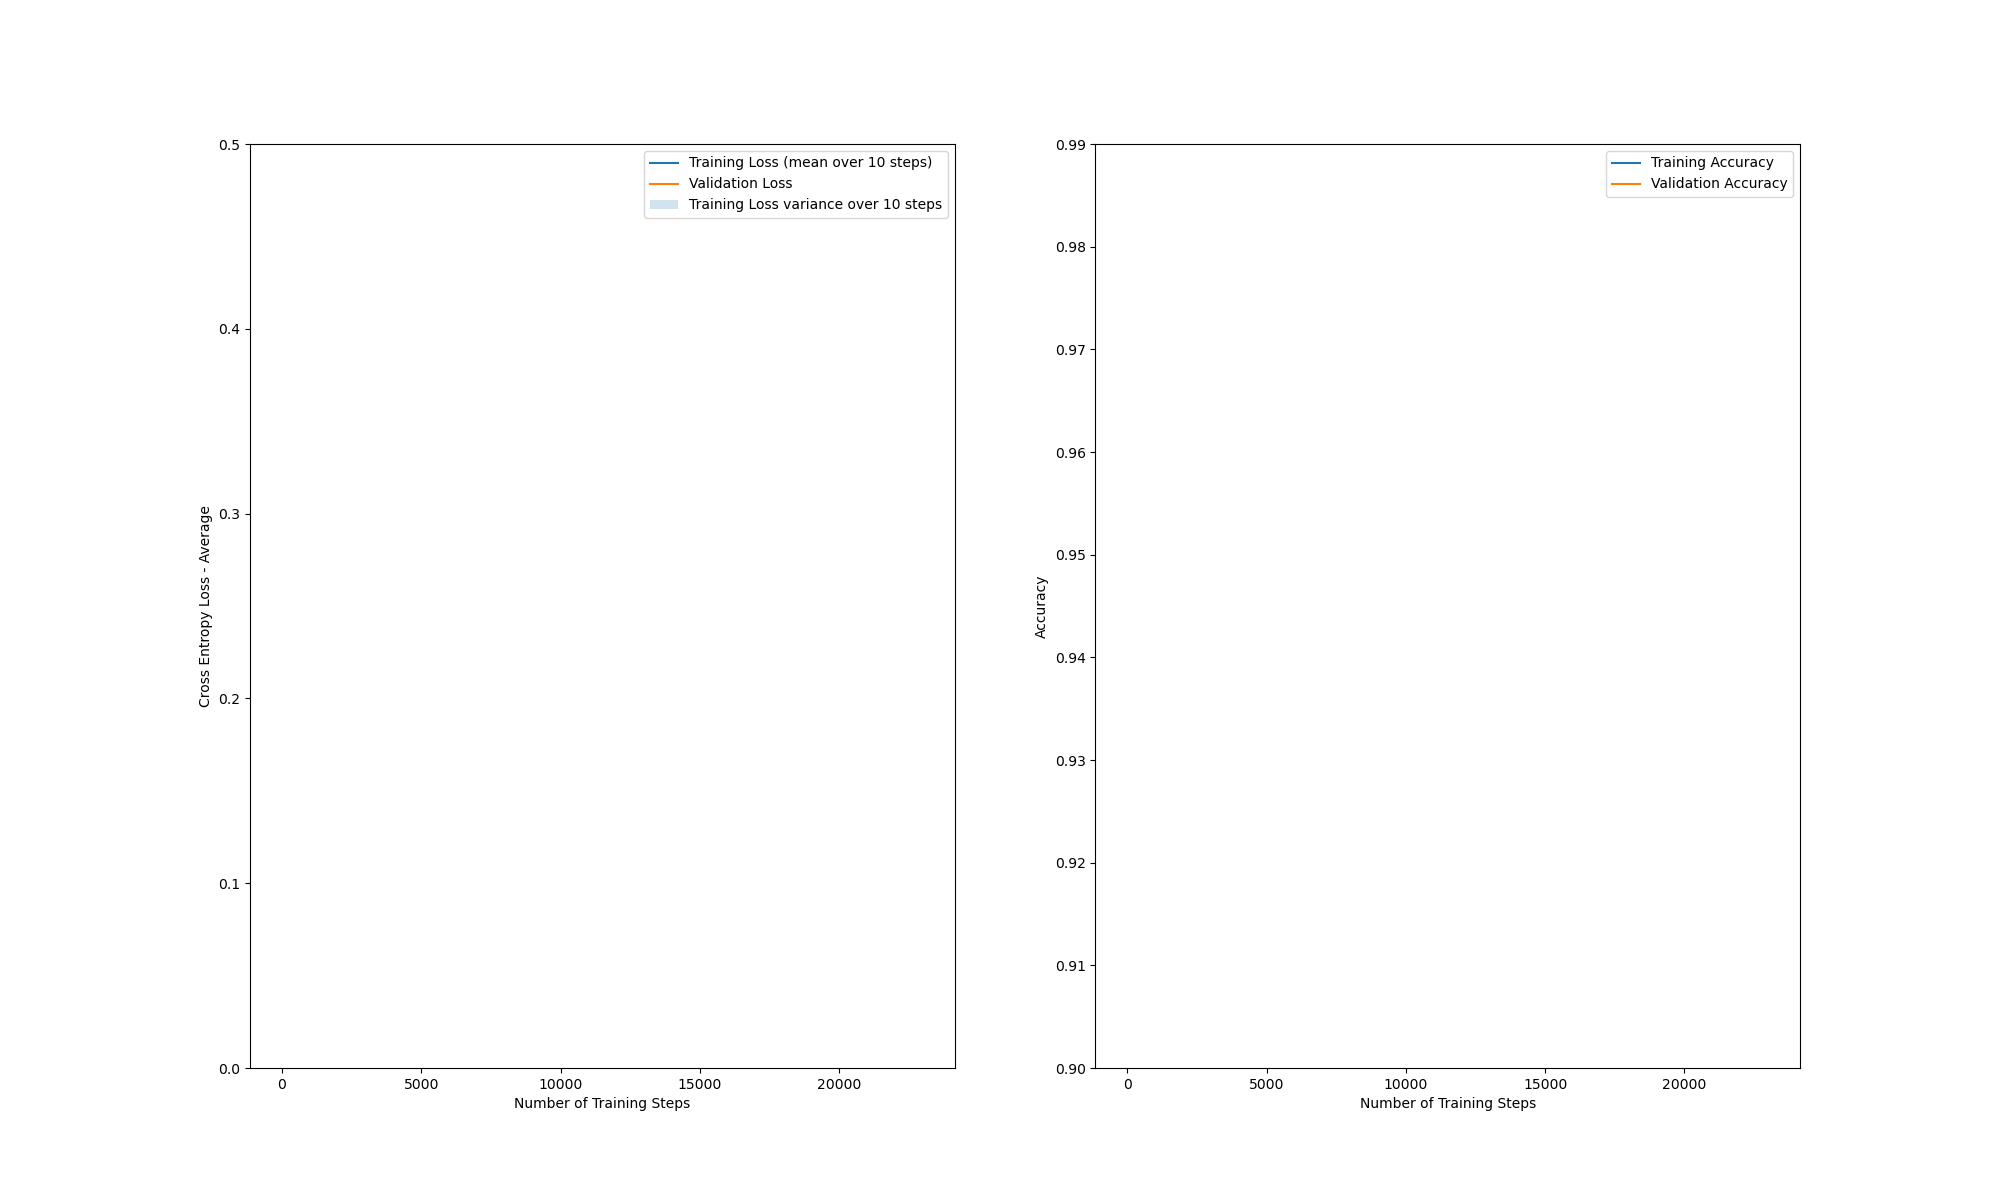
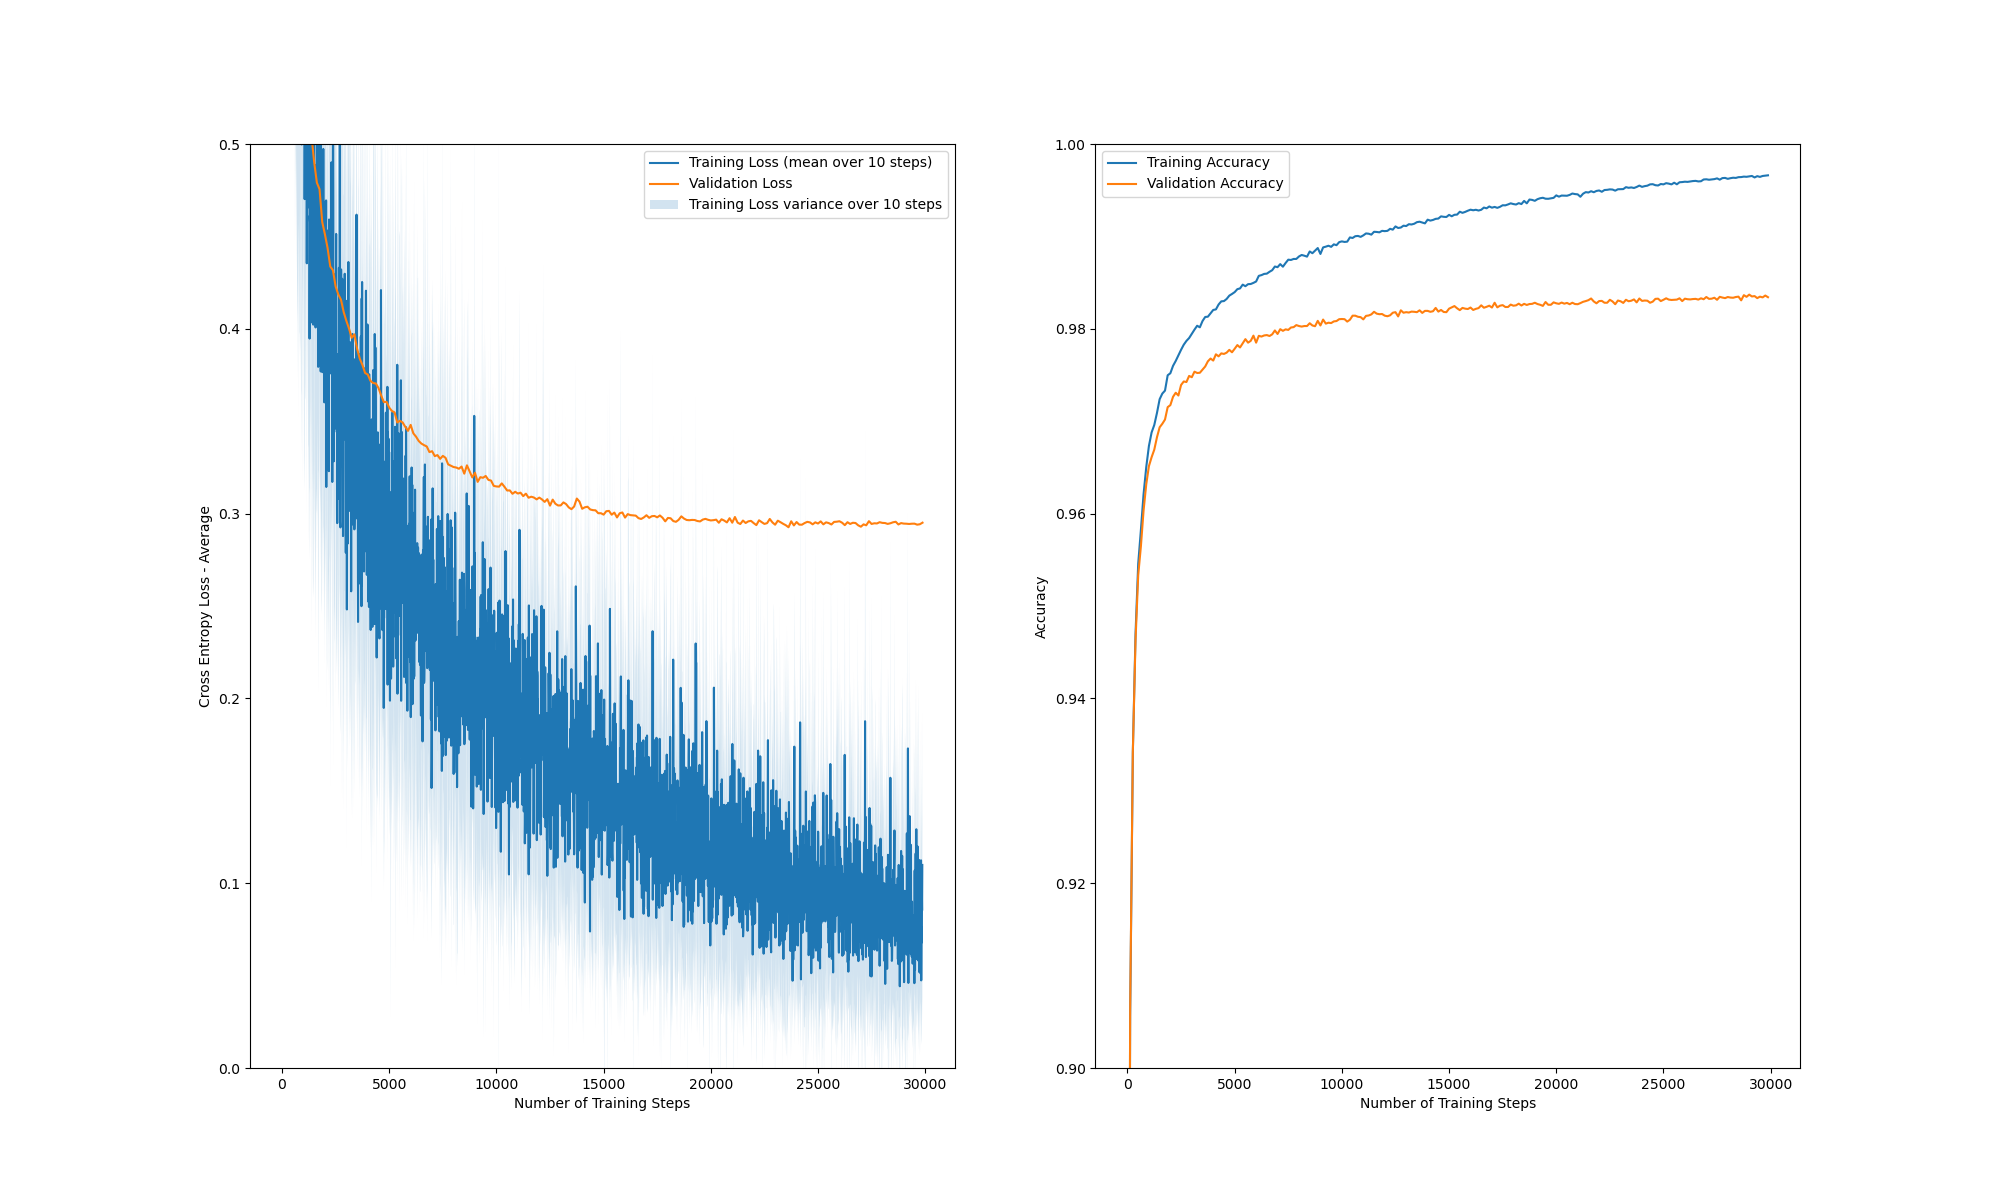
A2: task 2 done

diff --git a/assignment2/task2.py b/assignment2/task2.py
@@ -18,8 +18,8 @@ def calculate_accuracy(X: np.ndarray, targets: np.ndarray, model: SoftmaxModel) 
     predictions = model.forward(X)
 
     chosen_class = np.zeros_like(predictions)
-    chosen_class[np.arange(len(predictions)), predictions.argmax(1)]=1
-    correct = np.count_nonzero(targets==chosen_class)
+    chosen_class[np.arange(len(predictions)), predictions.argmax(1)] = 1
+    correct = np.count_nonzero(targets == chosen_class)
     accuracy = correct / (targets.shape[0]*targets.shape[1])
     return accuracy
 
@@ -51,13 +51,12 @@ class SoftmaxTrainer(BaseTrainer):
         Returns:
             loss value (float) on batch
         """
-        # TODO: Implement this function (task 2c)
+        # task 2c
         outputs = self.model.forward(X_batch)
         self.model.backward(X_batch, outputs, Y_batch)
         for i in range(0,2):
             self.model.ws[i] -= self.learning_rate*self.model.grads[i]
         loss = cross_entropy_loss(Y_batch, outputs)  # sol
-
         return loss
 
     def validation_step(self):
@@ -135,10 +134,11 @@ if __name__ == "__main__":
     plt.ylabel("Cross Entropy Loss - Average")
     # Plot accuracy
     plt.subplot(1, 2, 2)
-    plt.ylim([0.90, .99])
+    plt.ylim([0.90, 1.0])
     utils.plot_loss(train_history["accuracy"], "Training Accuracy")
     utils.plot_loss(val_history["accuracy"], "Validation Accuracy")
     plt.xlabel("Number of Training Steps")
     plt.ylabel("Accuracy")
     plt.legend()
     plt.savefig("task2c_train_loss.png")
+    plt.show()

diff --git a/assignment2/task2a.py b/assignment2/task2a.py
@@ -90,7 +90,8 @@ class SoftmaxModel:
         for size in self.neurons_per_layer:
             w_shape = (prev, size)
             print("Initializing weight to shape:", w_shape)
-            w = np.zeros(w_shape)
+            # w = np.zeros(w_shape)
+            w = np.random.uniform(-1, 1, w_shape) # Task 2c
             self.ws.append(w)
             prev = size
         self.grads = [None for i in range(len(self.ws))]
